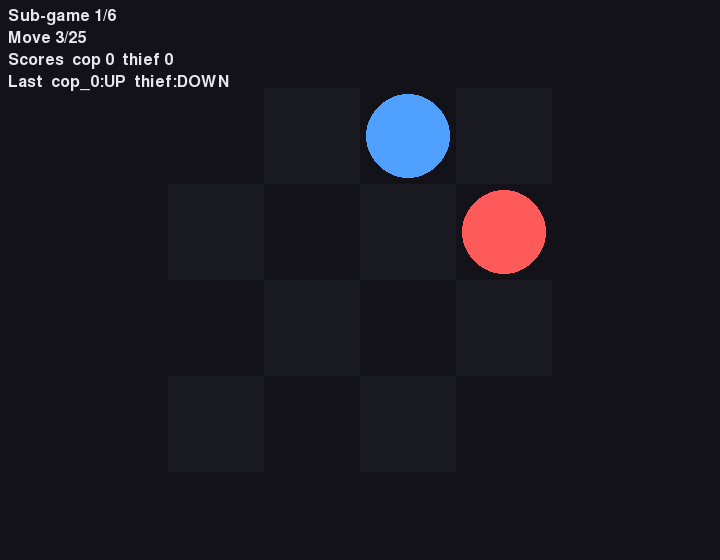
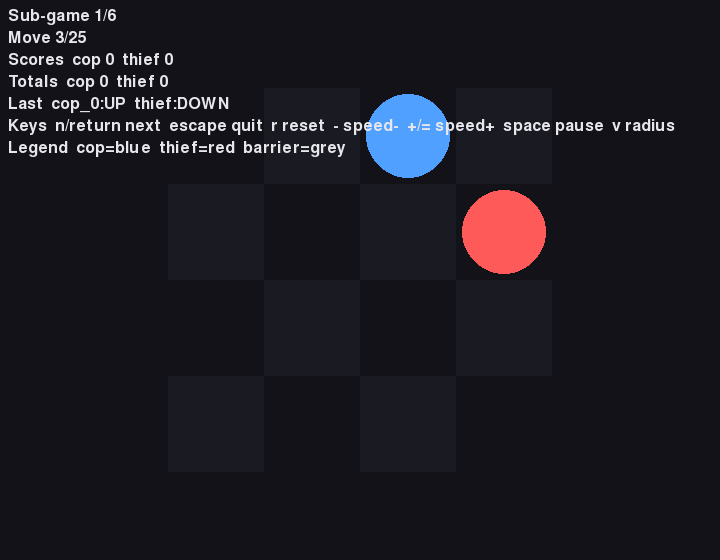
fix(goal-r3): fresh-clone install truth, HUD totals+help (UX gap), PLAN/env honesty
Goal-loop round 3 (comprehensive reviewer + hostile critic; both re-verified all
round-2 fixes HOLD). New findings, all fixed:

- [material] README Installation failed a REAL fresh clone (12 collection errors:
  the suite needs the gui extra + mcp group; `cli play` crashed on fastmcp). The
  install line is now CI's exact line (uv sync --extra gui --group dev --group mcp)
  and Usage's "(all working)" is qualified by it. Verified: CI's line yields
  536 passed / 99.37% on a fresh clone.
- [material, UX-vs-code] docs/UX.md promised HUD "totals" + a persistent help/legend
  line that build_hud_plan never rendered (falsified by our own screenshot) -> the
  HUD now renders Totals + a bindings()-DERIVED Keys line (consuming the previously
  orphaned helper) + a token-legend line; +2 tests; all 7 screenshots regenerated
  (first render overflowed 720px -> legend split to its own line, re-verified visually).
- UX.md §10 documented play.py flags that don't exist -> real flags (--seed --grid).
- PLAN still pointed PII at a nonexistent secrets/ dir in 5 spots -> repo-root
  players.local.yaml as built; .env-example's "mechanism = gmail_api_oauth" (no such
  config key) -> honest "reserved for the OAuth fallback (NOT built)".
- F5's "final" statistic now defined reader-facing (mean over each seed's LAST 5
  rounds — why it differs from the F1 endpoint); §7.2 "lands at" -> "settles at";
  "F1/F5's 45-run matrix" -> "the 45-run matrix behind F1/F5/F6".
[…]

Changed region(s): [[0.0, 0.1214, 0.9472, 0.2732]]

diff --git a/src/gui/draw_plan.py b/src/gui/draw_plan.py
@@ -10,8 +10,29 @@ the ops, so WHICH cells/tokens/colours/text are drawn is testable headless.
 from __future__ import annotations
 
 from src.gui import palette
+from src.gui.input_map import bindings
 from src.gui.spectator import SpectatorFrame
 from src.gui.transform import GridView
+
+# Short HUD labels for the help line (§10.2 Nielsen 6: recognition over recall).
+_CMD_SHORT = {
+    "toggle_pause": "pause",
+    "speed_up": "speed+",
+    "slow_down": "speed-",
+    "next_sub_game": "next",
+    "reset": "reset",
+    "toggle_view_radius": "radius",
+    "quit": "quit",
+}
+
+
+def _help_line() -> str:
+    """The persistent HUD help/legend line — DERIVED from the real key bindings (never drifts)."""
+    keys_by_cmd: dict[str, list[str]] = {}
+    for key, cmd in bindings().items():
+        keys_by_cmd.setdefault(cmd, []).append(key)
+    parts = ["/".join(sorted(keys)) + " " + _CMD_SHORT[cmd] for cmd, keys in sorted(keys_by_cmd.items())]
+    return "Keys  " + "  ".join(parts)
 
 
 def _token(rect: tuple, color: tuple) -> dict:
@@ -53,16 +74,19 @@ def build_board_plan(frame: SpectatorFrame, view: GridView, show_radius: bool = 
 
 
 def build_hud_plan(frame: SpectatorFrame) -> list[dict]:
-    """Return the HUD text ops (sub-game / move / scores / last action / winner)."""
+    """Return the HUD text ops (sub-game / move / scores / totals / last / winner / help)."""
     lines = [
         f"Sub-game {frame.sub_game}/{frame.num_games}",
         f"Move {frame.move}/{frame.max_moves}",
         f"Scores  cop {frame.scores['cop']}  thief {frame.scores['thief']}",
+        f"Totals  cop {frame.totals['cop']}  thief {frame.totals['thief']}",
     ]
     if frame.last_action:
         lines.append("Last  " + "  ".join(f"{k}:{v}" for k, v in frame.last_action.items()))
     if frame.winner:
         lines.append(f"WINNER: {frame.winner.upper()}")
+    lines.append(_help_line())  # persistent key-bindings help (§10.2 Nielsen 6 + 10)
+    lines.append("Legend  cop=blue  thief=red  barrier=grey")  # token legend (own line — fits 720px)
     return [
         {"kind": "text", "pos": (8, 8 + i * (palette.FONT_PX + 4)), "text": t, "color": palette.TEXT}
         for i, t in enumerate(lines)

diff --git a/tests/unit/test_draw_plan.py b/tests/unit/test_draw_plan.py
@@ -71,13 +71,24 @@ def test_view_radius_overlay_marks_the_manhattan_disk():
 
 
 def test_hud_plan_has_move_scores_and_winner():
-    """The HUD renders the move, scores, last action, and a winner banner at terminal."""
+    """The HUD renders move, scores, TOTALS, last action, a winner banner, and the help line."""
     texts = [op["text"] for op in build_hud_plan(_frame(winner="cop"))]
     assert any("Move 4/25" in t for t in texts)
     assert any("Scores" in t for t in texts)
+    assert any("Totals" in t for t in texts)
     assert any("Last" in t for t in texts)
     assert any("WINNER: COP" in t for t in texts)
     assert all(op["kind"] == "text" for op in build_hud_plan(_frame()))
+
+
+def test_hud_help_line_is_derived_from_the_real_bindings():
+    """The persistent help + legend lines list every bound command (derived, so they can't drift)."""
+    texts = [op["text"] for op in build_hud_plan(_frame())]
+    help_line, legend = texts[-2], texts[-1]
+    assert help_line.startswith("Keys")
+    for fragment in ("space pause", "v radius", "escape quit"):
+        assert fragment in help_line
+    assert legend.startswith("Legend") and "cop=blue" in legend
 
 
 def test_hud_plan_omits_last_and_winner_on_opening_frame():

diff --git a/docs/PLAN.md b/docs/PLAN.md
@@ -161,7 +161,7 @@ Assignment6-MARLCopsRobbers/
 ├── pyproject.toml                  # name=marl-cops-robbers, version="1.0.0", uv groups dev/mcp/mail
 ├── uv.lock                         # committed (uv-only hard gate)
 ├── .python-version                 # 3.11
-├── .env-example                    # tokens + Gmail + (PII handled via secrets/, see ADR-0013) — committed
+├── .env-example                    # tokens + Gmail (PII in repo-root players.local.yaml, ADR-0013) — committed
 ├── .gitignore                      # .env .env.* *.pem *.key credentials*.json secrets/ adrl-001-ex*.pdf instructions/ artifacts/
 │                                    #   + allow-list exception: !deploy/model/*.pt (reserved for the Stage-2 actor checkpoint, committed at deploy time)
 ├── .github/
@@ -253,7 +253,7 @@ Assignment6-MARLCopsRobbers/
 │   ├── reporting/
 │   │   ├── schema.py               # @dataclass Student/SubGame/MatchReport + to_dict/validate  ~130
 │   │   ├── collector.py            # MatchRecorder: zoneinfo timestamps, per-sub-game capture    ~110
-│   │   ├── players.py              # load_players() from git-ignored secrets/players.local.yaml  ~70
+│   │   ├── players.py              # load_players() from git-ignored repo-root players.local.yaml  ~70
 │   │   ├── builder.py              # build_report() + winner→scores map + format_subject()       ~110
 │   │   ├── mailer.py               # EmailSender Protocol + GmailMailer(smtplib) + Fake          ~120
 │   │   ├── redact.py               # write role-only redacted JSON to results/reports/           ~60
@@ -310,7 +310,7 @@ Assignment6-MARLCopsRobbers/
 │   ├── screenshots/                # GUI @2/3/4/5 + MCP CLI-log proof (§7.3 c,d)
 │   ├── reports/*.redacted.json     # role-only report evidence (real *.real.json git-ignored)
 │   └── experiment_manifest.json    # seeds, config hashes, git commit, run IDs
-├── secrets/                        # GIT-IGNORED: players.local.yaml (real names/ids)
+├── players.local.yaml              # GIT-IGNORED (real names/ids — repo root AS BUILT, not a secrets/ dir)
 ├── instructions/                   # GIT-IGNORED: brief PDFs, lecturer feedback, audit, cover sheet
 └── notebooks/analysis.ipynb        # consumes MarlSDK ONLY; LaTeX equations
 ```
@@ -522,7 +522,7 @@ human sign-off before the corresponding code lands.
 | **0010** | OLoRA scope & init | Pre-trained model = locally BC-cloned per-role encoder; OLoRA = paper-exact QR on the **pretrained** weight `W0` (eq 10-11, function-preserving rebase), wraps **encoder Linears only**, `rank=4` (assert ≤min(m,n)//2), `scale=8`; default OFF for from-scratch 5×5, ON for curriculum transfer | Only honest reading of §5.2 "pre-trained models + OLoRA (QR on pretrained weight matrices)" satisfying "training MUST be local"; reject QR-of-random-matrix (that is orthonormal-LoRA, not OLoRA) — the rejection is §7.2 grade evidence. |
 | **0011** | Referee-mediated dual-MCP topology, process isolation, per-session GRU state | 3 OS processes: 2 peer FastMCP servers + 1 neutral referee = THE ENVIRONMENT (CTDE global-state holder), NOT a third player; real cop↔thief HTTP `reveal_location` each tick (evidence-only); each agent server keeps **server-side per-sub-game GRU hidden state** `z_t` (keyed by session id, reset on `new_sub_game`) — agent servers are NOT `FASTMCP_STATELESS_HTTP` | Both planning legs converged; removes cop-as-self-referee conflict the §9 `mutual_agreement` exposes; makes train-global/exec-local literal in code. Processes (not threads) avoid FastMCP-async/Pygame/torch deadlock. The recurrent policy (eq 8) MUST carry `z_t` across the ~25 `request_move` ticks, so stateless HTTP is rejected for the agent servers (session-state holds it server-side; same contract localhost==cloud). Server-side `z_t` therefore requires a **single worker** (`cloud.workers: 1`); the free single-instance tier already provides this, and **client-carried hidden state** is the documented fallback if the host ever scales beyond one worker. |
 | **0012** | Cloud platform & auth | Primary host = **Prefect Horizon / FastMCP Cloud** (push-to-deploy, `*.fastmcp.app/mcp`); Render free-tier fallback (pre-tested); auth = app-level **revocable Bearer JWT** (RS256) inside FastMCP, NOT Horizon OAuth; revoke via jti deny-list (primary) + key rotation (hard lever) | §8.3 names this infra; identical auth gate runs on localhost AND cloud (never rewritten); §5.3 demands a revocable token + screenshottable 401. Inference-only deploy (actor nets; mixer/replay/`s` stay local). |
-| **0013** | Gmail mechanism & PII boundary | smtplib + STARTTLS + Gmail **App-Password** (default) behind an `EmailSender` Protocol (OAuth `GmailApiSender` drop-in fallback); real names/ids ONLY in git-ignored `secrets/players.local.yaml`, injected at send time; only role-only redacted JSON committed | Autonomous no-human-in-the-loop Cop (§3.5) can't do OAuth's interactive consent; App-Password is one revocable `.env` secret vs a tracked `token.json` hazard; §5.5 explicitly blesses it. PII deny-list is a hard gate. |
+| **0013** | Gmail mechanism & PII boundary | smtplib + STARTTLS + Gmail **App-Password** (default) behind an `EmailSender` Protocol (OAuth `GmailApiSender` drop-in fallback); real names/ids ONLY in the git-ignored repo-root `players.local.yaml`, injected at send time; only role-only redacted JSON committed | Autonomous no-human-in-the-loop Cop (§3.5) can't do OAuth's interactive consent; App-Password is one revocable `.env` secret vs a tracked `token.json` hazard; §5.5 explicitly blesses it. PII deny-list is a hard gate. |
 | **0014** | GUI = Pygame god-view spectator | Pygame (over Tkinter/Streamlit); strict read-only god-view fed by referee ground truth via frozen `SpectatorFrame`; dual read path (in-proc Stage-1 default, HTTP `/spectator` SSE Stage-2, separate spectator token); render literals local in `palette.py` | True real-time loop + clean headless `SDL_VIDEODRIVER=dummy` capture for §7.3c; reuses A5's proven ≤150-LOC module split; spectator never affects partial observability (hard test). |
 
 Supporting policy ADRs documented in the same index: version `1.0.0` (3-segment mapping of V3
@@ -644,7 +644,7 @@ email JSON (P9) needs P6 tally; the §11.3 scale figure (F6) needs the full-ladd
 | Ruff 0 violations | `ruff check` + `ruff format --check`; PLR2004 ignored in tests only | the CI "Ruff lint" + "Ruff format check" steps |
 | Docstring gate (every module/class/public fn) | Ruff `D` rules in the lint select (`D` per-file-ignored for `tests/`); every package `__init__.py` carries a one-line module docstring | `ruff check` (Ruff `D`); the CI "Ruff lint" step |
 | 0 hardcoded values | grid/moves/games/barriers/scoring/ports/hyperparams/recipient/templates in `config.yaml`; render literals local | `scripts/check_no_hardcode.py`; `test_config_single_source` |
-| 0 secrets + `.env-example` | tokens/keys/App-Password/PII in `.env` + `secrets/`; `.env-example` names-only; `.gitignore` covers `.env *.pem *.key credentials*.json secrets/` | `scripts/check_secrets.py`; redaction middleware + `redact_logs.py` before screenshots |
+| 0 secrets + `.env-example` | tokens/keys/App-Password in `.env`; PII in repo-root `players.local.yaml`; `.env-example` names-only; `.gitignore` covers `.env *.pem *.key credentials*.json players.local.yaml` | the CI secrets grep (see the note above); redaction in `src/results/comms.py` before captures |
 | uv-only | CI uses `uv`; no pip/conda; `uv.lock` committed | the CI "Sync deps" step (`uv sync --frozen`) |
 | Single SDK entry (UIs) | GUI/MCP/report import only `src.sdk`; scripts are thin wrappers (exempt) | `test_sdk_single_entry`, `test_mcp_servers_have_no_logic` |
 | Version starts at 1.00 | started `1.0.0`, now `1.1.0` (the L11 §5 Minimax-Q bonus minor release — distinct from the deferred §9 P-bonus phase) in `src/__init__.py` + `config.version` + `pyproject` | `tests/unit/test_config_loader.py` (see the implementation note above) |

diff --git a/README.md b/README.md
@@ -16,8 +16,9 @@ end-of-game **Gmail** report.
 ## Installation
 
 ```bash
-uv sync --dev          # uv-only (no pip/conda). add --group mcp --group mail for the servers + report.
-uv run pytest tests/ --cov=src   # quality gates (≥85% coverage)
+uv sync --extra gui --group dev --group mcp   # uv-only (no pip/conda) — the SAME line CI runs;
+                                              #   add --group mail only for the live report send
+uv run pytest tests/ --cov=src   # quality gates (536 tests, ≥85% coverage)
 uv run ruff check src/ tests/ scripts/
 uv run ruff format --check src/ tests/ scripts/
 uv run python scripts/check_file_sizes.py   # every .py ≤150 LOC
@@ -25,7 +26,7 @@ uv run python scripts/check_file_sizes.py   # every .py ≤150 LOC
 
 ## Usage
 
-Single-SDK entry + thin surfaces (all working):
+Single-SDK entry + thin surfaces (all verified working after the Installation line above):
 
 ```bash
 uv run python -m src.cli train --algo qmix      # local CTDE training (curriculum 2×2→5×5)
@@ -144,7 +145,7 @@ the joint max over the centrally-mixed value removes the marginalization. CTDE t
 γ / target cadence **and the configured 256-episode replay warmup**; only the mixer (or the IQL
 branch) differs (5 seeds, mean±SE). The expressive QMIX mixer is the **least stable at this budget**.
 At 3×3 all three converge close (IQL = VDN = **0.95**, QMIX **0.92**); but at the harder **4×4
-two-cop** stage QMIX's monotonic hypernetwork **destabilizes** — its F1 curve oscillates and lands at
+two-cop** stage QMIX's monotonic hypernetwork **destabilizes** — its F1 curve oscillates and settles at
 **0.63 ± 0.05**, *below* the simpler **VDN (0.84, the most consistent)** and **IQL (0.82, a strong
 baseline)**. This is the studied non-convergence phenomenon (risk R1) and a well-known MARL result:
 QMIX is strictly **more expressive** than VDN/IQL but **harder to train**, so at a bounded 50-round
@@ -176,6 +177,15 @@ for curriculum transfer (orthonormal low-rank deltas on a frozen encoder), **not
 non-stationarity (citing `[4]`,`[8]`). Rejected readings: random-matrix-QR init, an LLM bolt-on,
 and `r ≥ dim` (defeats the low-rank point) — all out of scope.
 
+**(5) Ethics of autonomous agents (ex06 §1.1 learning outcome 4).** Pursuit RL is dual-use: the same
+CTDE machinery that plays this grid game underlies real surveillance/tracking applications, and the
+brief's explicit design — agents acting in the cloud with *no human in the loop* — raises the
+accountability question of who answers for an autonomous agent's action. That is why this repo's
+controls are governance as much as engineering: revocable bearer/JWT auth bounds WHO can drive an
+agent, the single egress gatekeeper bounds + logs WHAT it can reach, and the PII deny-list/redaction
+bounds what it can disclose. Limitation analysis (§6) and these controls together address outcome 4's
+"limits and real-world implications" pairing.
+
 ### 7.3 Results — the controlled experiment + figures
 
 **Single controlled experiment** (D10 §C): identical nets / replay / ε-decay / γ / target cadence —
@@ -194,7 +204,8 @@ the right panel shows the thief's escape rate climbing in mirror: §7.2's non-st
 QMIX's wider band is the monotonic-mixer training instability (R1). Train reads global `s`, exec local `o_i`.*
 
 ![F5 baseline comparison](results/figures/baseline_comparison.png)
-*F5 — final capture rate IQL vs VDN vs QMIX at 4×4 (SE whiskers): VDN most consistent (0.84), IQL a
+*F5 — final capture rate IQL vs VDN vs QMIX at 4×4 (SE whiskers; "final" = mean over each seed's
+LAST 5 rounds, `aggregate.final_by_algorithm`, which is why it differs from the F1 endpoint): VDN most consistent (0.84), IQL a
 strong baseline (0.82); the more expressive QMIX is the least stable at this 50-round budget (0.63±0.05).*
 
 ![F6 scaling](results/figures/scaling.png)
@@ -236,7 +247,7 @@ overlay state (`state_view_radius.png`) is referenced from [`docs/UX.md`](docs/U
 
 End-to-end evidence: [`results/subgames/full_match_5x5.redacted.json`](results/subgames/full_match_5x5.redacted.json)
 is a full 6-sub-game §3.5 report (role-only, PII-redacted) produced by `sdk.run_local_match` with FRESH
-nets — schema/pipeline proof (trained performance lives in F1/F5's 45-run matrix). The SDK-only analysis
+nets — schema/pipeline proof (trained performance lives in the 45-run matrix behind F1/F5/F6). The SDK-only analysis
 notebook — LaTeX equations, all figures, citations, committed **executed** — is
 [`notebooks/analysis.ipynb`](notebooks/analysis.ipynb). The figure manifest:
 

diff --git a/docs/QUALITY.md b/docs/QUALITY.md
@@ -42,6 +42,11 @@ files. Evidence: `src/mcp/jwt_auth.py` (codex-validated); `src/mcp/schemas.py`; 
 Every `.py` ≤150 LOC; all business logic behind the single `MarlSDK` seam; OOP with no
 duplication; ruff(+D) clean; ADRs record every decision. Evidence:
 `scripts/check_file_sizes.py`; the ADR index in `docs/PLAN.md` §6; the per-section commit trail.
+**Extension points (V3 §12):** the `Mixer` ABC (QMIX/VDN swap; a new mixer is one subclass),
+the learner branch seam (IQL vs CTDE, ADR-0008), the `EmailSender` Protocol (App-Password ↔ OAuth
+drop-in), the `StateClient` trio (in-proc / replay / HTTP spectator feeds), and the
+`build_verifier` auth seam (static bearer ↔ RS256 JWT) — each is one interface, already exercised
+by two implementations or a test double.
 
 ## Portability
 `uv` + `pyproject.toml` (no `pip`/`requirements.txt`); pure-Python + torch; headless via

diff --git a/docs/UX.md b/docs/UX.md
@@ -64,6 +64,6 @@ timeout self-explanatory (→ `state_terminal.png`). Replay + reset let the user
 
 ## 10. Help and documentation
 This `docs/UX.md` is the GUI's reference; `scripts/play.py --help` documents the
-launch flags (`--config --seed --live/--replay --referee-url --token`); the
+launch flags (`--seed --grid`; config comes from `config/config.yaml` via the SDK); the
 in-window legend line documents the controls. The README §7.3c embeds the
 screenshot matrix.
